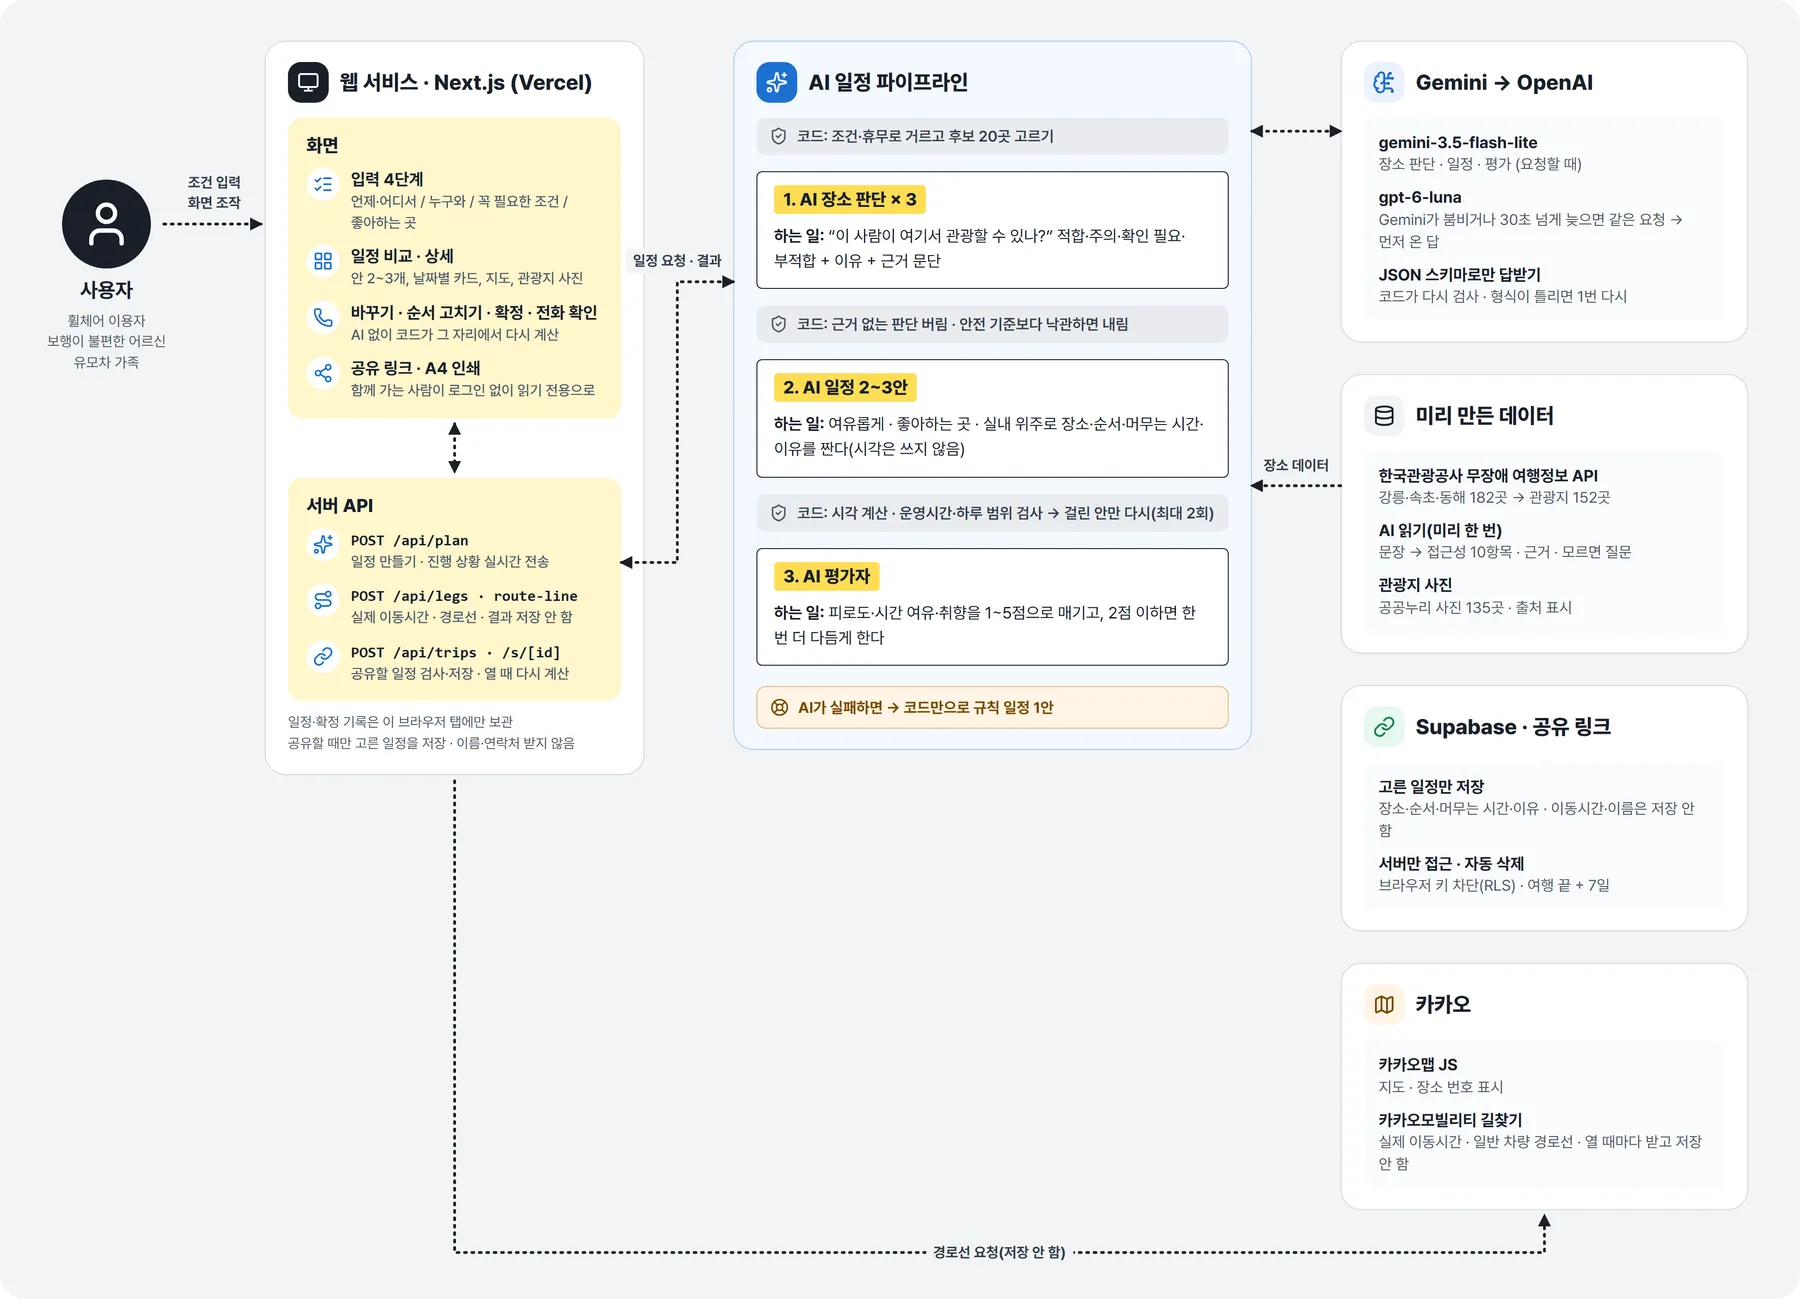
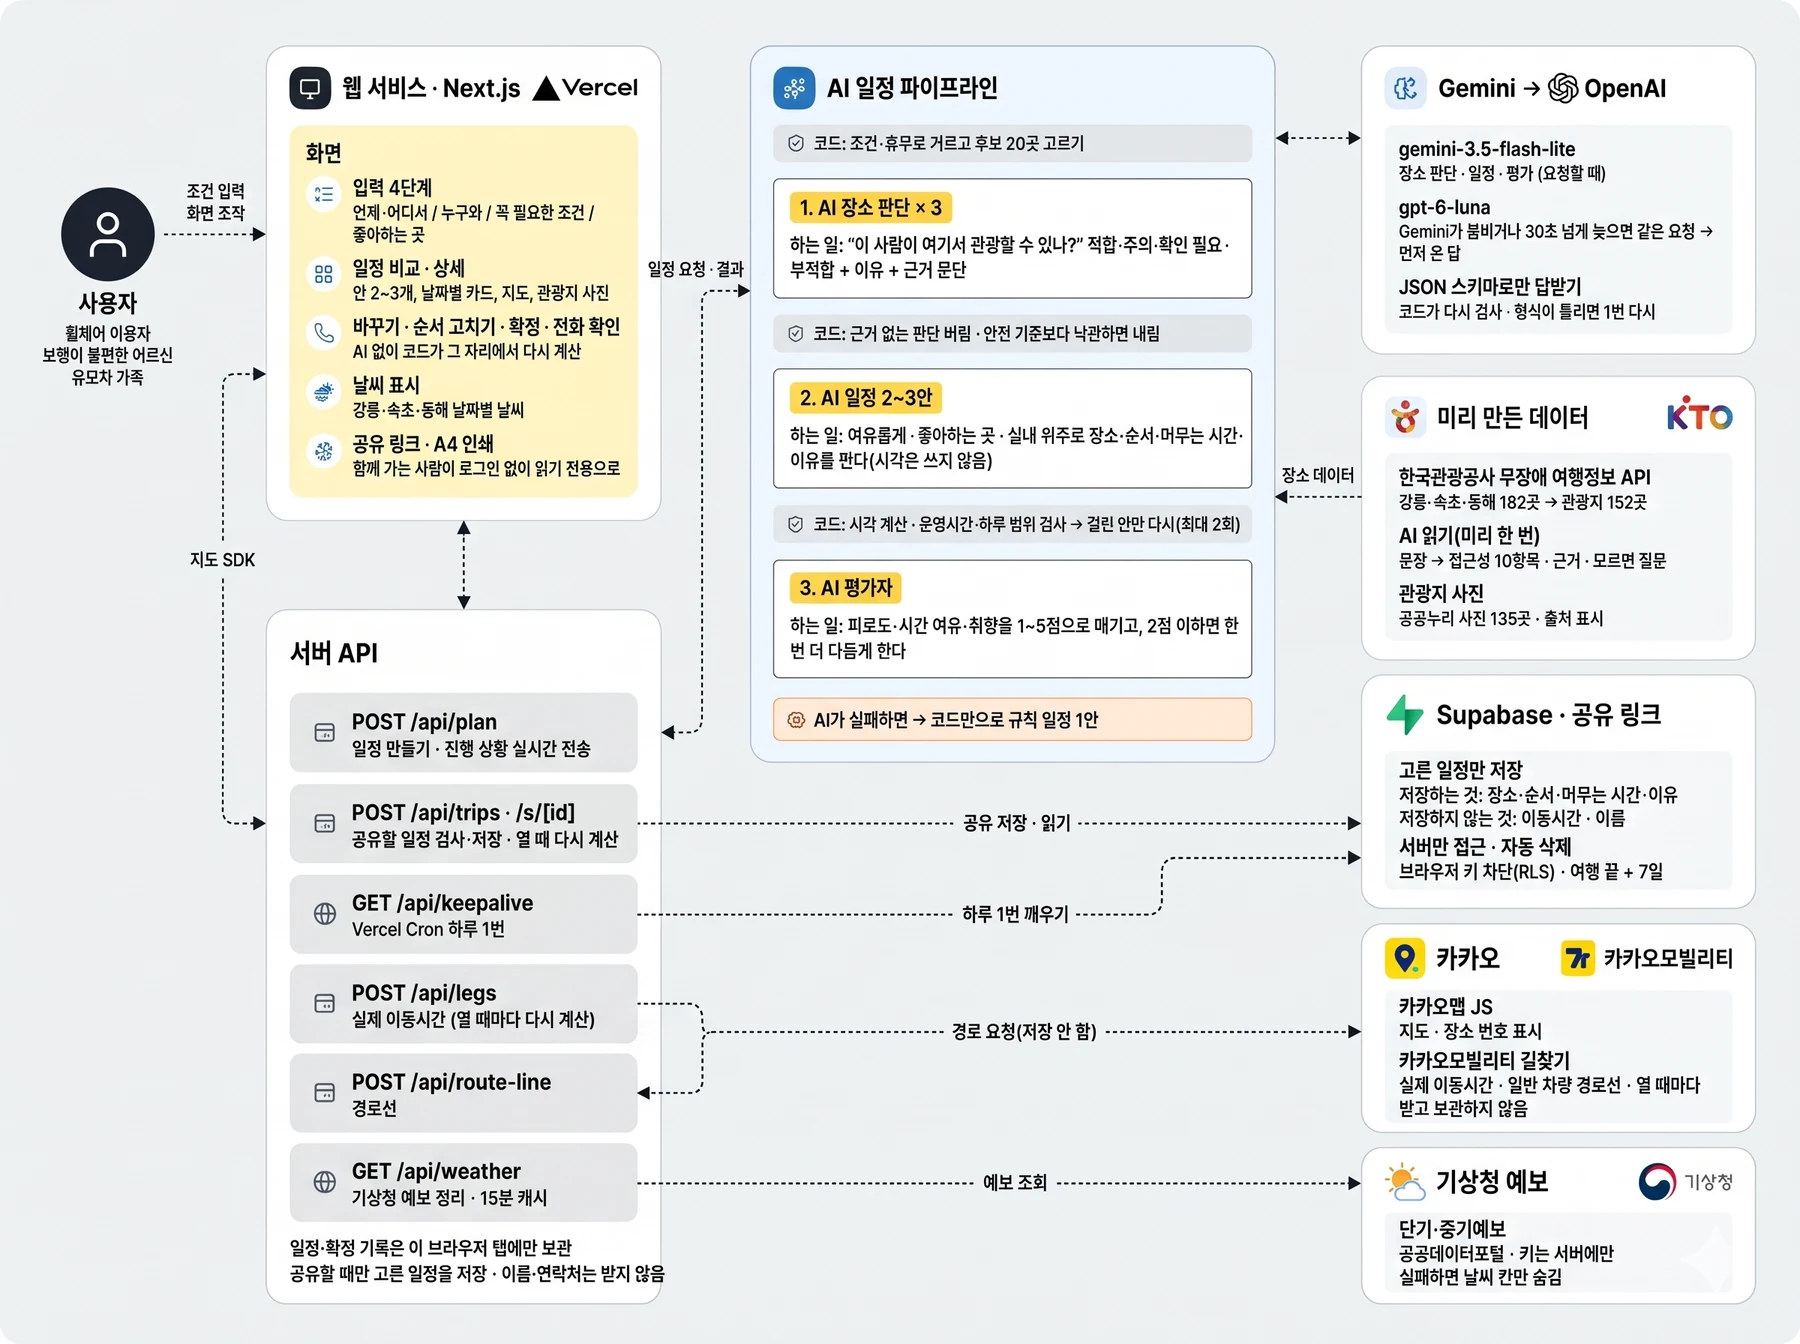
docs: 구조도 교체 나머지 — 새 그림 파일 · 그림 설명 · 스크립트 안내
- 앞 커밋(2866fbd)에서 빠진 파일: README와 작동 원리 글의 새 구조도 그림, 대체 글 · 그림 아래 문구, readme:architecture 명령과 안내 삭제
- README 화면 흐름 테스트 개수 500 → 502

diff --git a/src/components/about/Figures.tsx b/src/components/about/Figures.tsx
@@ -25,7 +25,7 @@ export function Phones({ shots, label }: { shots: Shot[]; label: string }) {
   );
 }
 
-/** README 구조도. 휴대폰에서는 글자가 작아 원본 크기로 열 수 있게 링크를 둔다 */
+/** 구조도(README와 같은 그림, 팀이 만든 그림 파일). 휴대폰에서는 글자가 작아 원본 크기로 열 수 있게 링크를 둔다 */
 export function Architecture() {
   return (
     <figure className="flex flex-col gap-2" data-reveal="">
@@ -33,14 +33,14 @@ export function Architecture() {
         <Image
           src="/about/architecture.webp"
           width={1800}
-          height={1299}
+          height={1344}
           sizes="(min-width: 1024px) 62rem, (min-width: 768px) 40rem, 100vw"
-          alt="구조도: 사용자 화면에서 조건을 보내면 서버가 코드로 후보 20곳을 거르고, AI가 장소를 세 번 판단하고, 코드가 근거와 안전 기준을 검사하고, AI가 일정 2~3개를 짜고, 코드가 시각을 계산·검사한 뒤 AI 평가자를 거쳐 화면으로 돌려준다. AI가 실패하면 규칙 일정. 옆에는 Gemini·OpenAI, 미리 만든 장소 데이터, Supabase 공유 링크, 카카오 지도·이동시간"
+          alt="구조도: 사용자가 웹 서비스(Next.js · Vercel)에서 조건을 고르면 서버 API가 AI 일정 파이프라인을 부른다. 파이프라인은 코드로 후보 20곳을 거르고, AI가 장소를 세 번 판단하고, 코드가 근거·안전 기준을 검사하고, AI가 일정 2~3안을 짜고, 코드가 시각·운영시간을 검사한 뒤 AI 평가자를 거친다. AI가 실패하면 규칙 일정 1안. 옆에는 Gemini → OpenAI, 미리 만든 장소 데이터, Supabase 공유 링크, 카카오 지도·길찾기, 기상청 예보"
           className="h-auto w-full"
         />
         <span className="sr-only"> (원본 크기로 새 탭에서 열기)</span>
       </a>
-      <figcaption className="text-sm text-ink-sub text-pretty">파란 칸은 AI가, 회색 칸은 코드가 하는 일이에요. 그림을 누르면 크게 볼 수 있어요.</figcaption>
+      <figcaption className="text-sm text-ink-sub text-pretty">노란 이름표가 붙은 칸은 AI가, 회색 줄은 코드가 하는 일이에요. 그림을 누르면 크게 볼 수 있어요.</figcaption>
     </figure>
   );
 }

diff --git a/CLAUDE.md b/CLAUDE.md
@@ -55,7 +55,7 @@ src/lib/weather/    kma.ts(기상청 호출, 서버 전용) · service.ts(캐시
 src/lib/            llm.ts(AI 호출은 이 파일 하나로: 제공자 순서 AI_ORDER, 모델 GEMINI_MODEL_FAST/READ · OPENAI_MODEL) · kakao.ts(서버 전용) · types.ts · utils.ts · use-media.ts · intro.ts
 data/               places.json · places.schema.json · evidence.json · photos.json · featured.json(대표 관광지) · ai/summary.json(한 줄 소개) · docs/places/{id}.md(근거 문장) · ai/read/(① 읽기 결과) · public/restrooms.json(짝지은 공중화장실 요약)
                     · eval/(read-v1 · 선택 human.json) · raw/·build/(API 원본·중간 산출물, 커밋 안 함)
-scripts/            tour/(관광공사 API 수집·보고서·사진) · public/(공중화장실 공공데이터) · ai/(① 읽기·합치기·예시·고정 결과) · readme/(캡처·구조도) · dev/(연결 확인·시험, weather-probe 기상청 키·게이트웨이 확인) — scripts/README.md
+scripts/            tour/(관광공사 API 수집·보고서·사진) · public/(공중화장실 공공데이터) · ai/(① 읽기·합치기·예시·고정 결과) · readme/(캡처) · dev/(연결 확인·시험, weather-probe 기상청 키·게이트웨이 확인) — scripts/README.md
 tests/engine/       시나리오 10개(기획 문서 표) — 목표: 필수 조건 위반 0건
 tests/ai/           가짜 LLM으로 가드 검사(근거 없는 판단 버림, 모름≠적합, 시각은 코드 값, 실패 시 규칙 일정)
 tests/…             src와 같은 폴더(lib·places·plan·text·trip·api) · tests/e2e/ Playwright 화면 흐름

diff --git a/scripts/README.md b/scripts/README.md
@@ -36,7 +36,6 @@
 | 명령 | 하는 일 | 결과 |
 |---|---|---|
 | `npm run readme:capture` | 화면 캡처 23장(휴대폰 18 · PC 5, 결과 화면은 예시 일정) + 휴대폰·PC 틀을 입힌 그림 + 표지 1장(개발 서버 `npm run dev`가 켜져 있어야 함). 시작 화면 단계 소개의 휴대폰 화면(`step-*.png`)도 함께 갱신. 뒤에 `screens`(공유 링크 없이 화면·표지만) · `share`(공유·인쇄만) · `frames`(틀만) · `cover`(표지만) · `design`(디자인 이야기 그림 `design-icons.png`, 서버 불필요) · 장면 이름(예: `01-home`)을 붙이면 그것만 | `docs/readme/*.png`, `docs/readme/mock/`, `public/preview/` |
-| `npm run readme:architecture` | 구조도(글을 고치고 다시 실행) | `docs/readme/architecture.png` |
 
 ## 4. 확인·시험용 (`scripts/dev/`)
 
